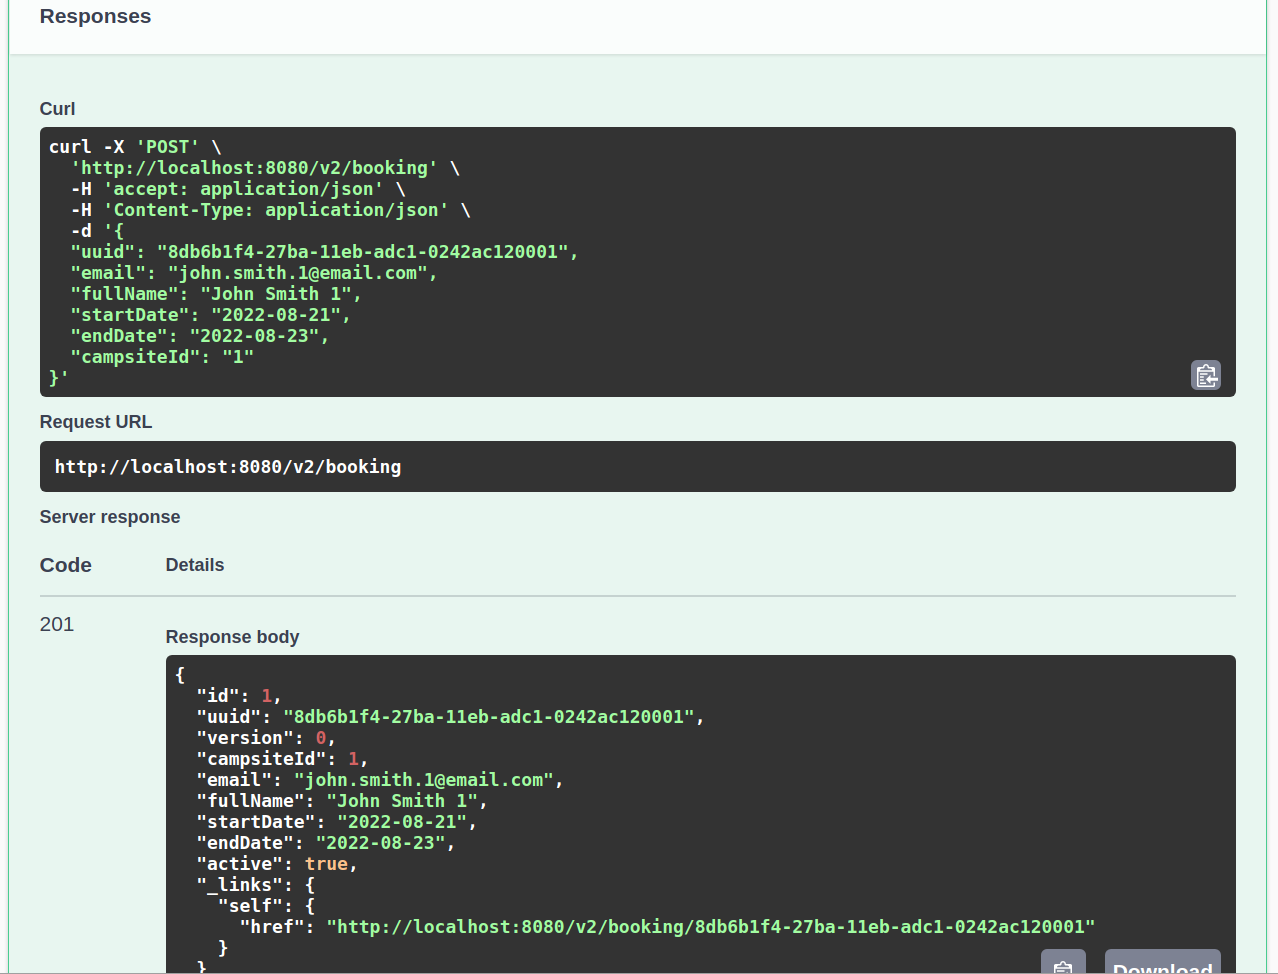
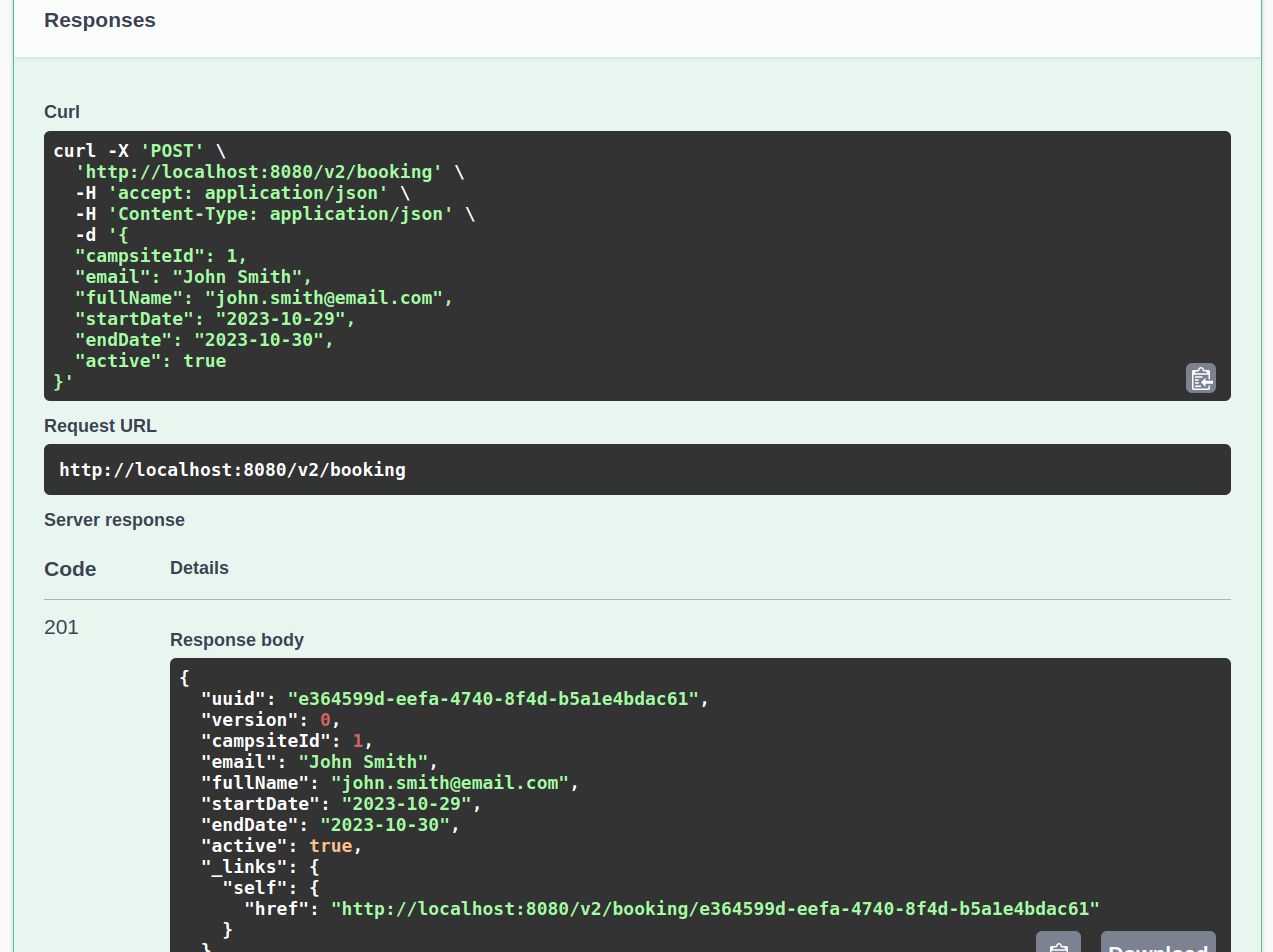
docs: update "Swagger UI" section in README

Changed region(s): [[0.0306, 0.0914, 0.9804, 0.6702], [0.1225, 0.6397, 0.9804, 1.0], [0.0, 0.0, 0.1225, 0.0609]]

diff --git a/README.md b/README.md
@@ -134,12 +134,12 @@ the `Request Body` text area, and click on the `Execute`:
 
 ```json
 {
-  "uuid": "8db6b1f4-27ba-11eb-adc1-0242ac120001",  
-  "email": "john.smith.1@email.com",
-  "fullName": "John Smith 1",
-  "startDate": "2022-08-21",
-  "endDate": "2022-08-23", 
-  "campsiteId": "1"
+  "campsiteId": 1,
+  "email": "John Smith",
+  "fullName": "john.smith@email.com",
+  "startDate": "2023-10-29",
+  "endDate": "2023-10-30",
+  "active": true
 }
 ```
 ![Swagger UI Add Booking 1](/readme/swagger-add-booking-1.png)
@@ -161,36 +161,37 @@ Execute the [create-bookings.sh](concurrent-test/create-bookings.sh) script to s
 booking creation for the same booking dates:
 
 ```bash
-$ concurrent-test/create-bookings.sh 2022-09-16 2022-09-17 http:/localhost:80
+$ concurrent-test/create-bookings.sh 2023-10-16 2023-10-17 http:/localhost:80
 ```
 The response should be as follows after formatting, i.e., only one booking was created:
 ```json
-{
-   "id":2,
-   "version":0,
-   "campsiteId":1,
-   "uuid":"ea2e2f8f-749d-4497-b0ec-0da4bf437800",
-   "email":"john.smith.3@email.com",
-   "fullName":"John Smith 3",
-   "startDate":"2022-09-16",
-   "endDate":"2022-09-17",
-   "active":true,
-   "_links":{
-      "self":{
-         "href":"http://localhost/v2/booking/ea2e2f8f-749d-4497-b0ec-0da4bf437800"
+[
+  {
+    "status": "BAD_REQUEST",
+    "timestamp": "2023-10-15T16:36:53.563620238",
+    "message": "No vacant dates available from 2023-10-16 to 2023-10-17"
+  },
+  {
+    "status": "BAD_REQUEST",
+    "timestamp": "2023-10-15T16:36:53.568417093",
+    "message": "No vacant dates available from 2023-10-16 to 2023-10-17"
+  },
+  {
+    "uuid": "870cdaaa-592e-4f9e-92e4-8168f7d427b7",
+    "version": 0,
+    "campsiteId": 1,
+    "email": "john.smith.3@email.com",
+    "fullName": "John Smith 3",
+    "startDate": "2023-10-16",
+    "endDate": "2023-10-17",
+    "active": true,
+    "_links": {
+      "self": {
+        "href": "http://localhost:8080/v2/booking/870cdaaa-592e-4f9e-92e4-8168f7d427b7"
       }
-   }
-}
-{
-   "status":"BAD_REQUEST",
-   "timestamp":"2022-08-30T02:52:19.10936",
-   "message":"No vacant dates available from 2022-09-16 to 2022-09-17"
-}
-{
-   "status":"BAD_REQUEST",
-   "timestamp":"2022-08-30T02:52:19.210229",
-   "message":"No vacant dates available from 2022-09-16 to 2022-09-17"
-}
+    }
+  }
+]
 ```
 
 #### Booking Update
@@ -198,31 +199,32 @@ Execute the [update-booking.sh](concurrent-test/update-booking.sh) script to sim
 updates for the same booking:
 
 ```bash
-$ concurrent-test/update-booking.sh 2022-09-16 2022-09-17 http:/localhost:80
+$ concurrent-test/update-booking.sh 2022-10-25 2022-10-26 http:/localhost:80
 ```
 The response should be as follows after formatting, i.e., only one booking was updated:
 ```json
-{
-  "id": 16,
-  "uuid": "fb79da99-0189-417c-b3de-e91c827151c7",
-  "version": 1,
-  "campsiteId": 2,
-  "email": "john.smith.1@email.com",
-  "fullName": "John Smith 1",
-  "startDate": "2022-09-16",
-  "endDate": "2022-09-17",
-  "active": true,
-  "_links": {
-    "self": {
-      "href": "http://localhost/v2/booking/fb79da99-0189-417c-b3de-e91c827151c7"
+[
+  {
+    "uuid": "cbf91bf1-c533-4c3d-a9c5-c1e3b0396306",
+    "version": 0,
+    "campsiteId": 3,
+    "email": "john.smith.1@email.com",
+    "fullName": "John Smith 1",
+    "startDate": "2023-10-25",
+    "endDate": "2023-10-26",
+    "active": true,
+    "_links": {
+      "self": {
+        "href": "http://localhost:8080/v2/booking/cbf91bf1-c533-4c3d-a9c5-c1e3b0396306"
+      }
     }
+  },
+  {
+    "status": "CONFLICT",
+    "timestamp": "2023-10-15T17:04:18.606047801",
+    "message": "Optimistic locking error - booking was updated by another transaction"
   }
-}
-{
-  "status": "CONFLICT",
-  "timestamp": "2022-08-30T11:57:26.956261999",
-  "message": "Optimistic locking error - booking was updated by another transaction"
-}
+]
 ```
 
 ### Basic Load Testing 
